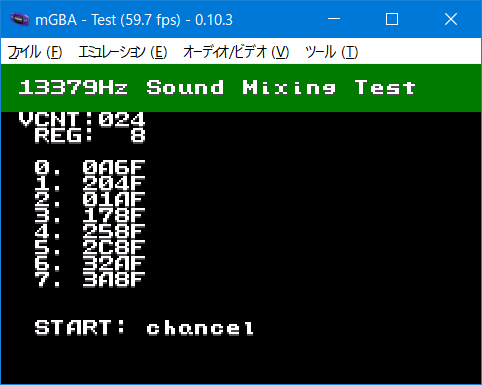
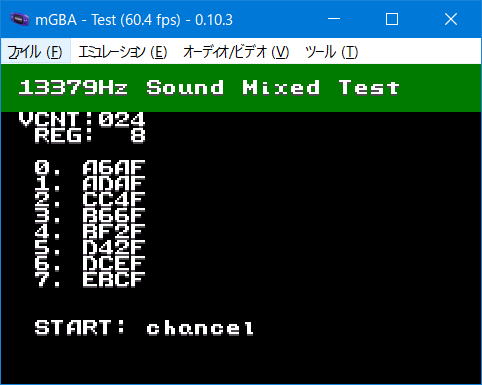
初版

diff --git a/128_snd_mixed_test/src/main.c b/128_snd_mixed_test/src/main.c
@@ -25,7 +25,7 @@ int main(void)
 	SndInit();
 	IrqInit();
 
-	BgDrawPrintf(1, 1, "13379Hz Sound Mixing Test");
+	BgDrawPrintf(1, 1, "13379Hz Sound Mixed Test");
 
 	for(;;)
 	{
@@ -39,7 +39,7 @@ int main(void)
 		*(vu16*)0x5000000 = RGB5(0,  0, 0);
 
 
-		BgDrawPrintf(1, 3, "VCNT:%03d", REG_VCOUNT, SndGetReg());
+		BgDrawPrintf(1, 3, "VCNT:%03d", REG_VCOUNT);
 		BgDrawPrintf(1, 4, " REG:%3d", SndGetReg());
 
 		s32 i;

diff --git a/128_snd_mixed_test/README.md b/128_snd_mixed_test/README.md
@@ -2,11 +2,11 @@
 
 ![test2](test2.png)
 
-This project was created with reference to Deku's Game Boy Advance sound mixer tutorial.
+This project was created with reference to Deku's Game Boy Advance sound tutorial.
 
 Thank you to everyone who has been involved in preserving it to this day!
 
-- [Deku's Game Boy Advance sound mixer tutorial](https://deku.gbadev.org/program/sound1.html)
+- [Deku's Game Boy Advance sound tutorial](https://deku.gbadev.org/program/sound1.html)
 - [github](https://github.com/stuij/deku-sound-tutorial)
 
 ## lisence
